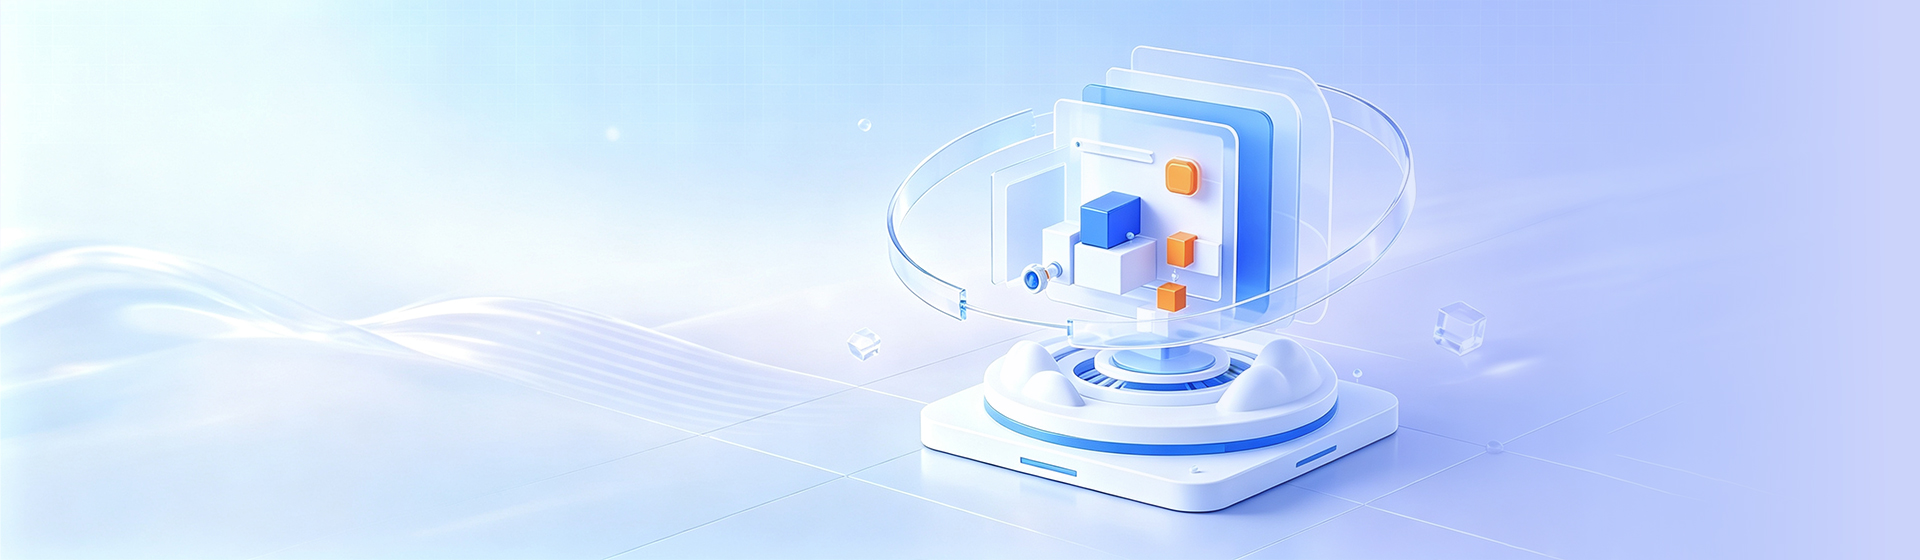
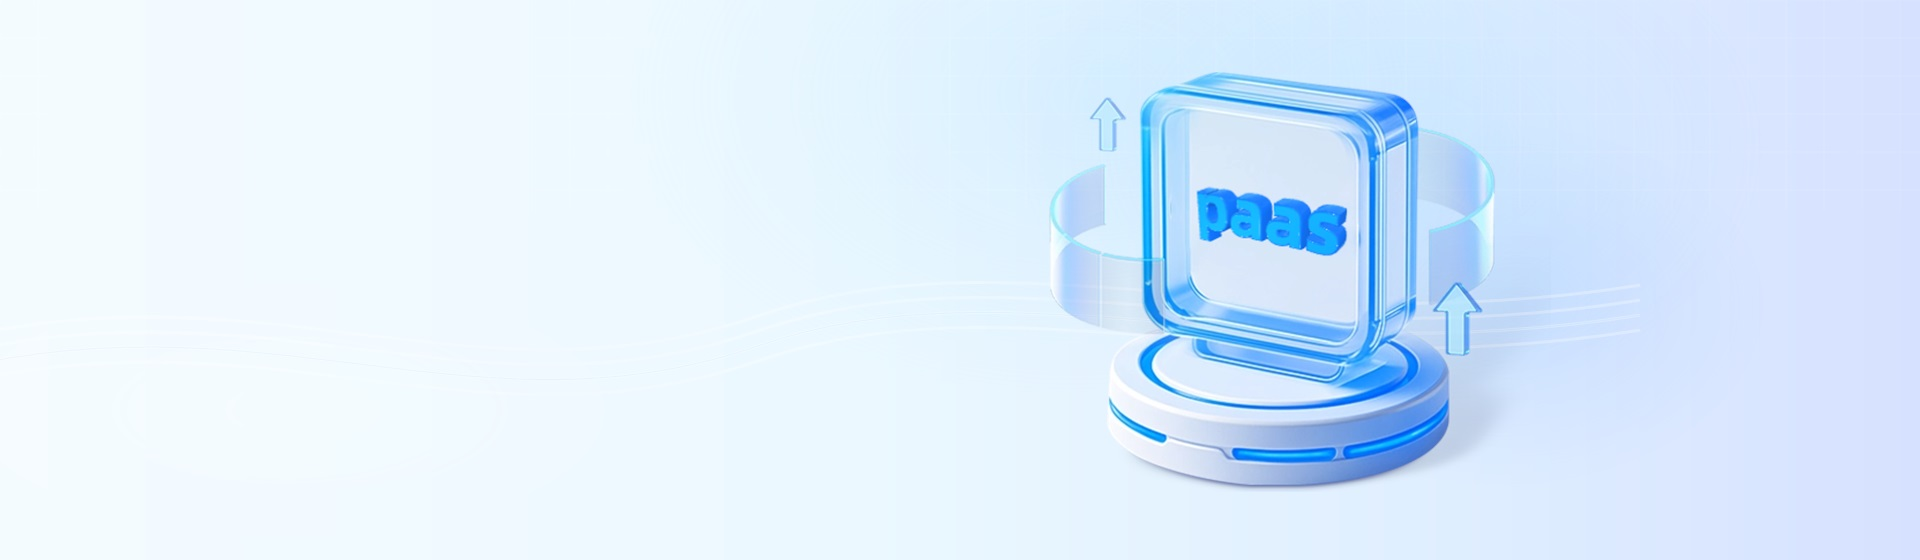
feat: PaaS页面
· 新增模块图片
· 删除部分模块
· 文案和样式内容调整，新增高光标题

diff --git a/my-vue-app/src/client/views/paas/paasPageData.ts b/my-vue-app/src/client/views/paas/paasPageData.ts
@@ -14,19 +14,19 @@ import {
 import type { TabShowcaseItem } from '@/client/components/business/TabShowcase.vue'
 import { toPagePath } from '@/client/data/routePaths'
 
-const blankShowcaseImage = '/images/paas/blank-showcase.svg'
+const blankShowcaseImage = '/images/paas/blank-showcase.png'
 const trialPagePath = toPagePath('single_mfsy')
 
 
 // ========== Hero 区域 ==========
 export const heroSection = {
   title: 'PaaS',
-  subtitle: '底层能力赋能商业个性化需求',
+  subtitle: '低代码平台灵活搭建',
+  desc:'支持自定义表单、流程引擎、权限管理与 BI 看板，拖拉拽搭建业务应用，字段联动灵活配置，开放 OPEN API 深度对接，满足企业个性化业务需求',
   primaryCta: '免费试用',
   secondaryCta: '立即咨询',
   secondaryHref: trialPagePath,
   primaryHref: trialPagePath,
-  image: blankShowcaseImage,
   imageAlt: 'PaaS 产品能力展示',
   bg: "url('/images/paas/hero-banner.jpg') center / cover no-repeat",
 }
@@ -35,10 +35,10 @@ export const heroSection = {
 export const heroBannerSlide = {
   key: 'paas-hero',
   mediaType: 'image' as const,
-  eyebrow: '',
   title: heroSection.title,
   subtitle: heroSection.subtitle,
-  desc: '',
+  desc: heroSection.desc,
+  highlightMode: 'title',
   primaryCta: heroSection.primaryCta,
   primaryHref: heroSection.primaryHref,
   secondaryCta: heroSection.secondaryCta,
@@ -53,17 +53,6 @@ export const heroBannerSlide = {
   visualImageAlt: heroSection.imageAlt,
 }
 
-// ========== PaaS 能力总览区域（CTASection） ==========
-export const capabilityIntroSection = {
-  title: '完美的 PaaS 底层能力可以赋能您的整个商业流程',
-  description:
-    '销帮帮 PaaS 底层能力助力企业应对与日俱增的业务挑战，实现系统与企业个性化需求的快速适配。',
-  image: blankShowcaseImage,
-  imageAlt: 'PaaS 底层能力展示占位图',
-  primaryCta: '立即咨询',
-  primaryHref: trialPagePath,
-}
-
 // ========== 业务搭建能力区域（TabShowcase，左文右图） ==========
 export const businessBuildSection = {
   title: '自定义表单、流程引擎、权限管理',
@@ -72,7 +61,7 @@ export const businessBuildSection = {
       key: 'custom-form',
       label: '自定义表单',
       description: '拖拉拽即可搭建业务表单，30+字段类型、100+函数公式，表单间数据联动随需配置。',
-      image: blankShowcaseImage,
+      image: '/images/paas/custom-form.png',
       imageAlt: '自定义表单功能展示占位图',
       badgeIcon: AllApplication,
     },
@@ -80,7 +69,7 @@ export const businessBuildSection = {
       key: 'workflow-engine',
       label: '流程引擎',
       description: '预设审批流程即可自动流转，支持条件分支、阶段推进器，告别手动切换录入。',
-      image: blankShowcaseImage,
+      image: '/images/paas/workflow-engine.png',
       imageAlt: '流程引擎功能展示占位图',
       badgeIcon: Branch,
     },
@@ -88,7 +77,7 @@ export const businessBuildSection = {
       key: 'permission-management',
       label: '权限管理',
       description: '角色权限穿透到单张表单和单条数据，支持按成员字段动态设置共享权限。',
-      image: blankShowcaseImage,
+      image: '/images/paas/permission-management.png',
       imageAlt: '权限管理功能展示占位图',
       badgeIcon: Shield,
     },
@@ -103,7 +92,7 @@ export const openPlatformSection = {
       key: 'bi-engine',
       label: 'BI 引擎',
       description: '智能仪表盘自动获取表单数据，一键生成可视化图表，重要指标直达首页看板。',
-      image: blankShowcaseImage,
+      image: '/images/paas/bi-engine.png',
       imageAlt: 'BI 引擎功能展示占位图',
       badgeIcon: DataDisplay,
     },
@@ -111,7 +100,7 @@ export const openPlatformSection = {
       key: 'low-code',
       label: '云叩低代码',
       description: '不只是低代码，而是一套完整的二开方案。用更普惠的技术，驱动更高价值的业务。',
-      image: blankShowcaseImage,
+      image: '/images/paas/low-code.png',
       imageAlt: '云叩低代码功能展示占位图',
       badgeIcon: Thunderbolt,
     },
@@ -119,7 +108,7 @@ export const openPlatformSection = {
       key: 'open-api',
       label: 'OPEN API',
       description: '开放 API 接口连接不同系统平台，打破数据孤岛，数据联动不再依靠手动导出导入。',
-      image: blankShowcaseImage,
+      image: '/images/paas/open-api.png',
       imageAlt: 'OPEN API 功能展示占位图',
       badgeIcon: ApiApp,
     },
@@ -136,8 +125,8 @@ export const detailCapabilitySection = {
       label: '字段自动联动，减少重复填写',
       description:
         '从字段联动到数据回溯，从多模板管理到文档预览——每一个细节，都经过真实业务的打磨。当用户选择特定字段选项时，系统可自动带出相关信息，支持文本、富文本、图片、附件等内容跨表单联动，减少手动录入和信息遗漏。',
-      image: blankShowcaseImage,
-      imageAlt: '字段自动联动功能展示占位图',
+      image: '/images/paas/field-linkage.png',
+      imageAlt: '字段自动联动功能展示图',
       badgeIcon: LinkCloud,
     },
     {
@@ -145,8 +134,8 @@ export const detailCapabilitySection = {
       label: '业务数据关联，形成完整闭环',
       description:
         '客户、联系人、商机、合同等数据可灵活关联，支持本表关联、多模板关联和新建时自动填充，让复杂业务关系在系统中清晰可追踪。',
-      image: blankShowcaseImage,
-      imageAlt: '业务数据关联功能展示占位图',
+      image: '/images/paas/business-relation.png',
+      imageAlt: '业务数据关联功能展示图',
       badgeIcon: Branch,
     },
     {
@@ -162,8 +151,8 @@ export const detailCapabilitySection = {
       label: '子表单更好用，复杂信息也清楚',
       description:
         '多行文本自适应展示，支持展开收起，移动端采用更适合阅读的纵向平铺样式。报价明细、拜访记录、产品清单等复杂信息查看更顺畅。',
-      image: blankShowcaseImage,
-      imageAlt: '子表单功能展示占位图',
+      image: '/images/paas/sub-form.png',
+      imageAlt: '子表单功能展示图',
       badgeIcon: FolderPlus,
     },
     {
@@ -171,8 +160,8 @@ export const detailCapabilitySection = {
       label: '商机推进更顺，过程更可控',
       description:
         '阶段任务完成后自动勾选，流失原因支持多级选择，并可在推进过程中直接新建关联数据，让销售推进商机时少跳转、少遗漏。',
-      image: blankShowcaseImage,
-      imageAlt: '商机推进功能展示占位图',
+      image: '/images/paas/opportunity-process.png',
+      imageAlt: '商机推进功能展示图',
       badgeIcon: Trend,
     },
   ] as readonly TabShowcaseItem[],

diff --git a/my-vue-app/src/client/views/paas/PaaS.vue b/my-vue-app/src/client/views/paas/PaaS.vue
@@ -3,16 +3,6 @@
     <h1 class="sr-only">PaaS - 销帮帮 CRM</h1>
     <HeroBanner mode="single" :slides="[heroBannerSlide]" />
 
-    <CTASection
-      variant="warm"
-      :title="capabilityIntroSection.title"
-      :subtitle="capabilityIntroSection.description"
-      :image="capabilityIntroSection.image"
-      :image-alt="capabilityIntroSection.imageAlt"
-      :primary-cta="capabilityIntroSection.primaryCta"
-      :primary-href="capabilityIntroSection.primaryHref"
-    />
-
     <TabShowcase
       :title="businessBuildSection.title"
       :tabs="businessBuildSection.tabs"
@@ -34,24 +24,15 @@
       theme="orange"
     />
 
-    <CTASection
-      variant="dawn"
-      :title="footerCtaSection.title"
-      :subtitle="footerCtaSection.subtitle"
-      :primary-cta="footerCtaSection.primaryCta"
-      :secondary-cta="footerCtaSection.secondaryCta"
-    />
   </div>
 </template>
 
 <script setup lang="ts">
 import HeroBanner from '@/client/components/business/HeroBanner.vue'
 import { usePageSEO } from '@/client/composables/usePageSEO'
-import CTASection from '@/client/components/business/CTASection.vue'
 import TabShowcase from '@/client/components/business/TabShowcase.vue'
 import {
   heroBannerSlide,
-  capabilityIntroSection,
   businessBuildSection,
   openPlatformSection,
   detailCapabilitySection,
